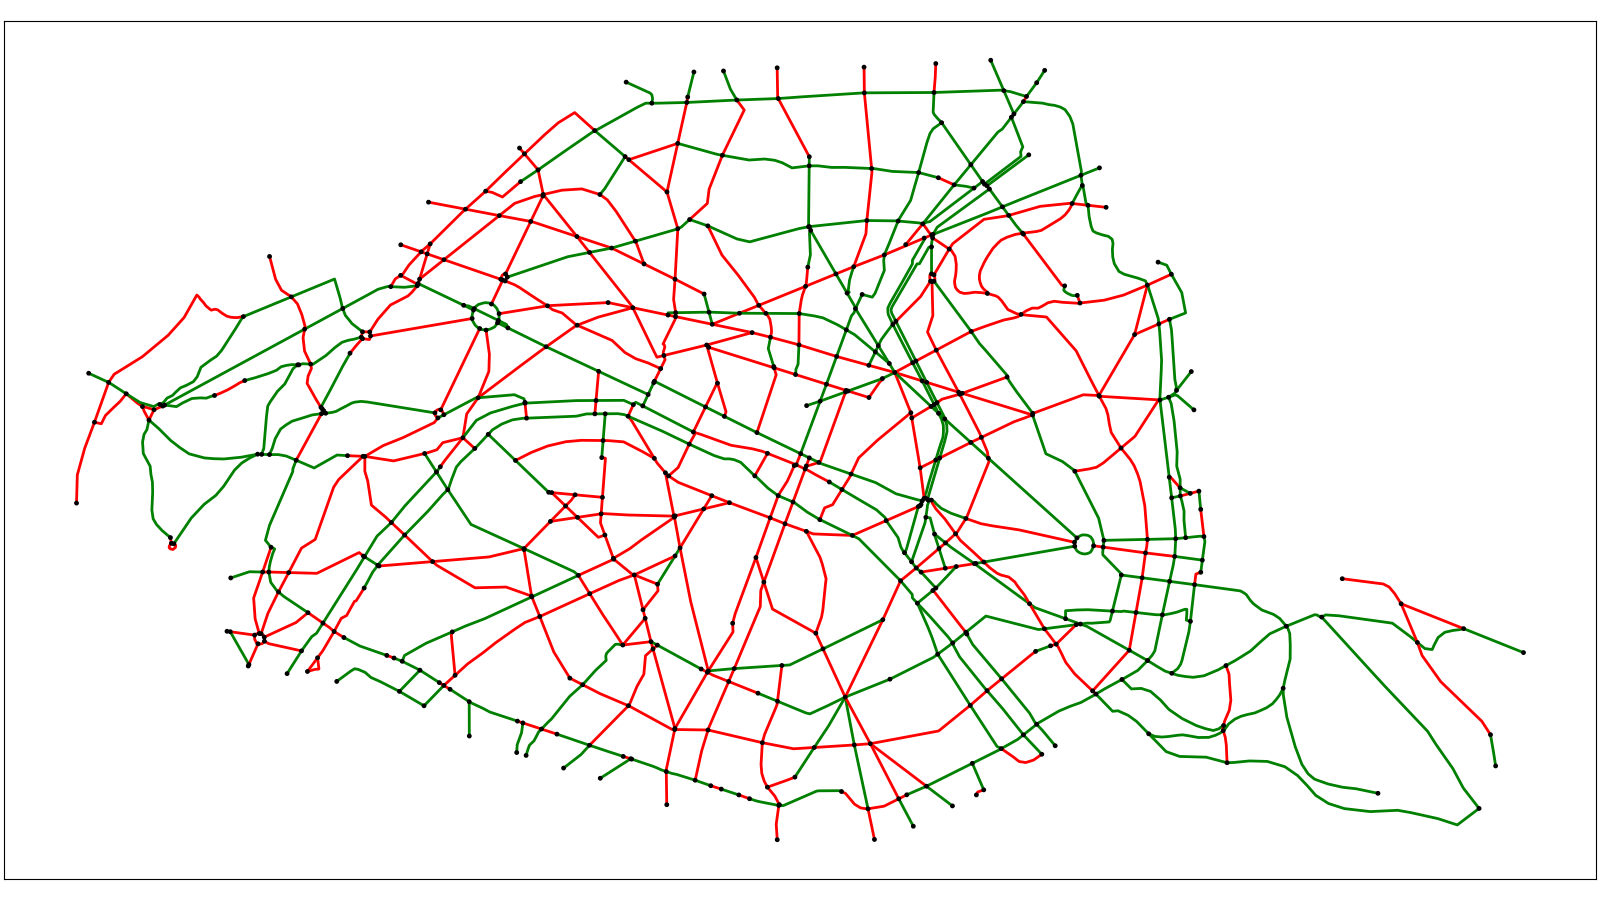
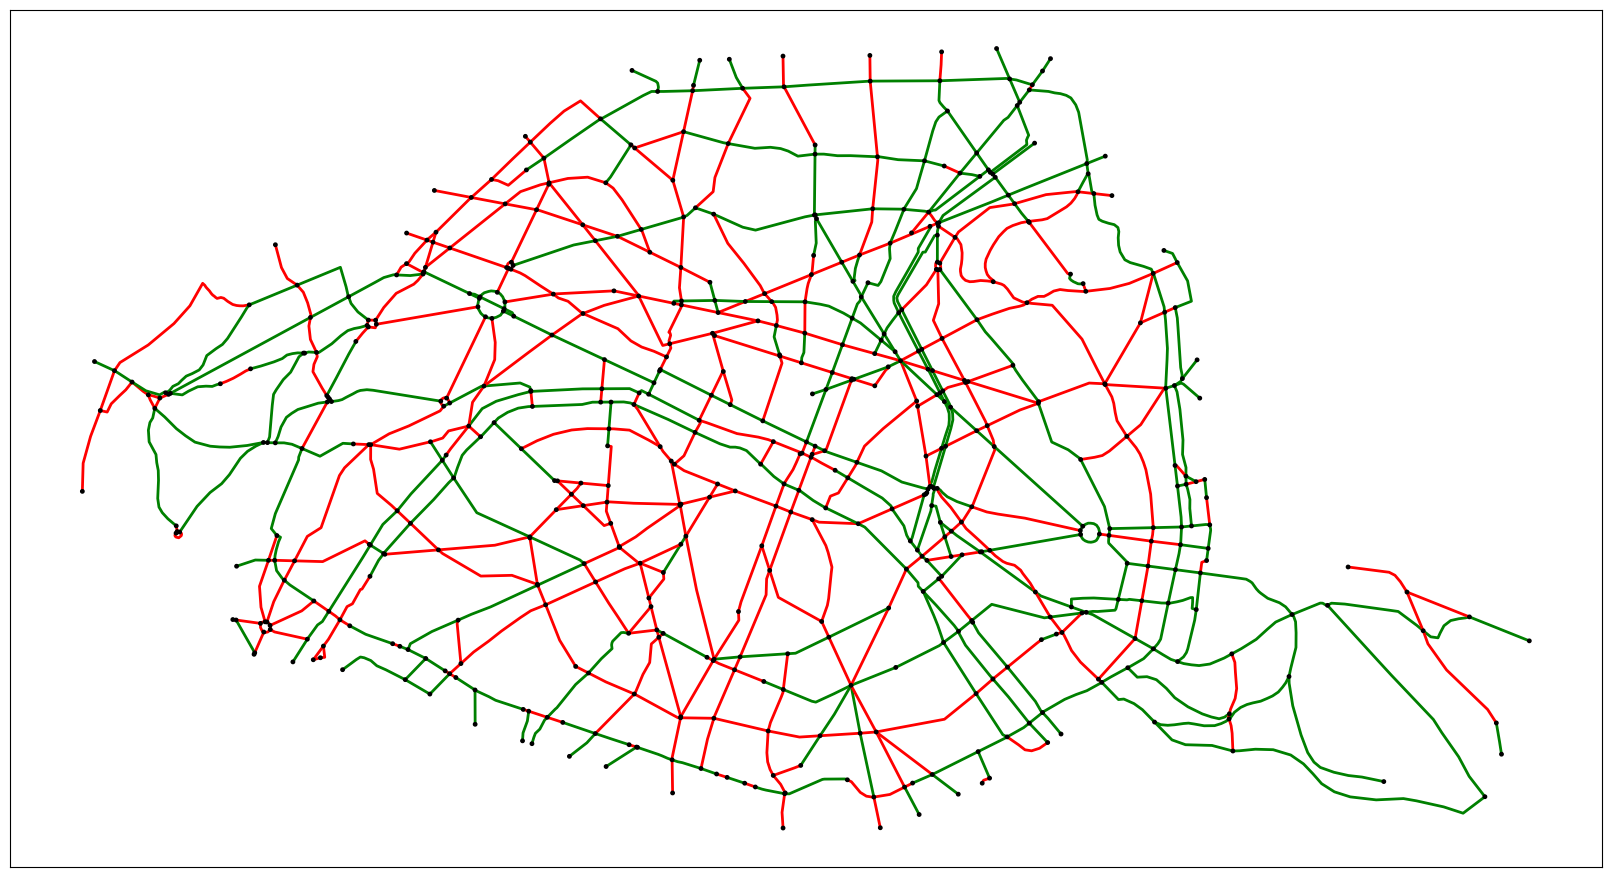
Fixed subtractive coverage growth, added metric template and update function to dynamic growth

diff --git a/orderbike/metrics.py b/orderbike/metrics.py
@@ -25,31 +25,44 @@ def growth_betweenness(G, weight="length"):
     return [key for key, val in sorted(ebet.items(), key=lambda x: x[1], reverse=True)]
 
 
+def growth_closeness(G, weight="length"):
+    """Return the list of all edges of G ranked in descending order of edge closeness, as the mean of their closeness nodes."""
+    nclo = nx.closeness_centrality(G, distance=weight)
+    eclo = {e: (nclo[e[0]] + nclo[e[1]]) / 2 for e in G.edges}
+    return [key for key, val in sorted(eclo.items(), key=lambda x: x[1], reverse=True)]
+
+
 def growth_coverage(
-    G, edge, pregraph=None, order="subtractive", geom={}, actual_area=0, buff_size=200
+    G,
+    edge,
+    order,
+    pregraph=None,
+    geom={},
+    actual_area=0,
+    buff_size=200,
+    min_buff=25,
+    threshold_change=0.01,
 ):
-    """Get coverage of the graph G. Works with growth.dynamic_growth function. See prefunc_growth_coverage."""
+    """Get coverage of the graph G. Works with growth.dynamic_growth function. Use prefunc_growth_coverage and upfunc_growth_coverage for classic coverage, use prefunc_growth_adaptative_coverage and upfunc_growth_adaptative_coverage for adaptative coverage."""
     geom_new = geom.copy()
     if order == "subtractive":
         geom_new.pop(edge)
-    if order == "additive":
+    elif order == "additive":
         geom_new[edge] = G.edges[edge]["geometry"].buffer(buff_size)
     new_area = shapely.ops.unary_union(list(geom_new.values())).area
-    if order == "subtractive":
-        return (actual_area - new_area) / pregraph.edges[edge]["length"]
-    elif order == "additive":
-        return (new_area - actual_area) / G.edges[edge]["length"]
-    else:
-        raise ValueError(
-            f"Incorrect value {order} for order, please choose subtractive or additive."
-        )
+    # If additive, the max is one increasing the most the area
+    # If subtractive, since new_area - actual_area <= 0 the max is one changing less the area
+    return (new_area - actual_area) / G.edges[edge]["length"]
 
 
-def prefunc_growth_coverage(G, order="subtractive", buff_size=200):
+def prefunc_growth_coverage(G_actual, G_final, order, buff_size=200):
     """Pre-compute the dictionary of buffered geometries of the edges and the actual area for the coverage growth optimization."""
-    geom = {edge: G.edges[edge]["geometry"].buffer(buff_size) for edge in G.edges}
+    geom = {
+        edge: G_actual.edges[edge]["geometry"].buffer(buff_size)
+        for edge in G_actual.edges
+    }
     return {
-        "pregraph": G,
+        "pregraph": G_actual,
         "order": order,
         "geom": geom,
         "actual_area": shapely.ops.unary_union(list(geom.values())).area,
@@ -57,63 +70,79 @@ def prefunc_growth_coverage(G, order="subtractive", buff_size=200):
     }
 
 
-# TODO: Add minimal buffer as plateau so replace buffer smaller than min_buff by min_buff ?
+def upfunc_growth_coverage(
+    G, G_actual, step, order, buff_size=200, geom=None, actual_area=0
+):
+    if order == "subtractive":
+        geom.pop(step)
+    elif order == "additive":
+        geom[step] = G.edges[step]["geometry"].buffer(buff_size)
+    return {
+        "pregraph": G_actual,
+        "order": order,
+        "geom": geom,
+        "actual_area": shapely.ops.unary_union(list(geom.values())).area,
+        "buff_size": buff_size,
+    }
+
+
 def prefunc_growth_adaptative_coverage(
+    G_actual, G_final, order, buff_size=400, min_buff=25, threshold_change=0.01
+):
+    """Pre-compute the dictionary of buffered geometries of the edges and the actual area for the coverage growth optimization."""
+    geom = {
+        edge: G_actual.edges[edge]["geometry"].buffer(buff_size)
+        for edge in G_actual.edges
+    }
+    return {
+        "pregraph": G_actual,
+        "order": order,
+        "geom": geom,
+        "actual_area": shapely.ops.unary_union(list(geom.values())).area,
+        "buff_size": buff_size,
+        "min_buff": min_buff,
+        "threshold_change": threshold_change,
+    }
+
+
+def upfunc_growth_adaptative_coverage(
     G,
-    order="subtractive",
-    buff_size=500,
-    G_final=None,
-    order_growth=[],
+    G_actual,
+    step,
+    order,
+    buff_size=400,
+    min_buff=25,
     threshold_change=0.01,
-    min_buff=20,
+    geom=None,
+    actual_area=0,
 ):
     """Pre-compute the dictionary of buffered geometries of the edges and the actual area for the coverage growth optimization, and reduce the buffer size if too big."""
-    if len(order_growth) > 1:
-        if order == "subtractive":
-            edges_bef = list(G.edges)
-            edges_bef.append(tuple([order_growth[-1]]))
-            G_bef = G_final.edge_subgraph(edges_bef)
-        elif order == "additive":
-            G_bef = G.copy()
-            G_bef.remove_edge(*order_growth[-1])
-        geom = {edge: G.edges[edge]["geometry"].buffer(buff_size) for edge in G.edges}
-        geom_bef = {
-            edge: G_bef.edges[edge]["geometry"].buffer(buff_size)
-            for edge in G_bef.edges
-        }
-        change = (
-            shapely.ops.unary_union(list(geom.values())).area
-            - shapely.ops.unary_union(list(geom_bef.values())).area
-        ) / shapely.ops.unary_union(list(geom_bef.values())).area
-        # Since there is no memory in the precomp function we need to always recompute the actual buffer size
-        while change < threshold_change:
+    if order == "subtractive":
+        geom.pop(step)
+    elif order == "additive":
+        geom[step] = G.edges[step]["geometry"].buffer(buff_size)
+    new_area = shapely.ops.unary_union(list(geom.values())).area
+    if buff_size > min_buff:
+        change = (new_area - actual_area) / actual_area
+        if change < threshold_change:
             buff_size = buff_size / 2
+            if buff_size <= min_buff:
+                buff_size = min_buff
             geom = {
                 edge: G.edges[edge]["geometry"].buffer(buff_size) for edge in G.edges
             }
-            # To avoid infinite loop for very large graph where single edge cannot give more than threshold change anymore
-            if buff_size <= min_buff:
-                break
-            geom_bef = {
-                edge: G_bef.edges[edge]["geometry"].buffer(buff_size)
-                for edge in G_bef.edges
-            }
-            change = (
-                shapely.ops.unary_union(list(geom.values())).area
-                - shapely.ops.unary_union(list(geom_bef.values())).area
-            ) / shapely.ops.unary_union(list(geom_bef.values())).area
-    else:
-        geom = {edge: G.edges[edge]["geometry"].buffer(buff_size) for edge in G.edges}
     return {
         "pregraph": G,
         "order": order,
         "geom": geom,
-        "actual_area": shapely.ops.unary_union(list(geom.values())).area,
+        "actual_area": new_area,
         "buff_size": buff_size,
+        "min_buff": min_buff,
+        "threshold_change": threshold_change,
     }
 
 
-def growth_relative_directness(G, edge, sm_final=[], G_final=None):
+def growth_relative_directness(G, edge, sm_final=[], G_final=None, order=None):
     """Get relative directness of the graph G. Works with growth.dynamic_growth."""
     sm = get_shortest_network_path_length_matrix(G)
     ids_to_delete = [ids for ids, node in enumerate(G_final.nodes) if node not in G]
@@ -125,10 +154,29 @@ def growth_relative_directness(G, edge, sm_final=[], G_final=None):
     return np.sum(mat) / np.count_nonzero(mat)
 
 
-def prefunc_growth_relative_directness(G, order="subtractive", G_final=None):
+def prefunc_growth_relative_directness(G, G_final, order):
     """Pre-compute the final shortesth network path length matrix of the graph."""
     sm_final = get_shortest_network_path_length_matrix(G_final)
-    return {"sm_final": sm_final, "G_final": G_final}
+    return {"sm_final": sm_final, "G_final": G_final, "order": order}
+
+
+def upfunc_growth_relative_directness(G, G_final, step, order):
+    """Pre-compute the final shortesth network path length matrix of the graph."""
+    return prefunc_growth_relative_directness(G, G_final, order)
+
+
+# def growth_directness(G, edge, em=[]):
+#     sm = get_shortest_network_path_length_matrix(G)
+#     mat = _avoid_zerodiv_matrix(em, sm)
+#     # Mean directness on all non-null value, a null value means in different components or same node
+#     return np.sum(mat) / np.count_nonzero(mat)
+#
+# def prefunc_growth_directness(G_actual, G, order):
+#     pass
+#     # return {"em":get_euclidean_distance_matrix(G_actual)}
+#
+# def upfunc_growth_directness(G, G_final, step, order):
+#     pass
 
 
 def directness(G, edge):

diff --git a/orderbike/growth.py b/orderbike/growth.py
@@ -68,8 +68,10 @@ def order_dynamic_network_growth(
     built=True,
     keep_connected=True,
     order="subtractive",
-    metric_func=metrics.growth_coverage,
-    precomp_func=metrics.prefunc_growth_coverage,
+    metric="coverage",
+    metric_func=None,
+    precomp_func=None,
+    update_func=None,
     progress_bar=True,
     **kwargs,
 ):
@@ -81,12 +83,24 @@ def order_dynamic_network_growth(
         built (bool, optional): If True, the graph will be initialized with all edges having as an attribute "built" = 1. Else it will be initialized with an arbitrary edge of the node with the highest closeness value. Defaults to True.
         keep_connected (bool, optional): If True, the number of components of G will be as small as possible for all the growth, restricting the list of edges that can be added. Defaults to True.
         order (str, optional): Either subtractive or additive. Gives the order for the greedy optimization. The subtractive (resp. additive) start from the final (resp. initial) graph and remove (resp. add) edges until reaching the initial graph (resp. final). Defaults to "subtractive".
-        metric_func (function, optional): The function computing the metric on G. Defaults to metrics.get_coverage.
-        precomp_func (function, optional): A sister function to metric_func to compute values before the loop on all valid edges. Defaults to metrics.prefunc_coverage.
+        metric (str, optional): The name of the metric used, automatically fill metric_func, precomp_func, and update_func. See _metric_dictionaries.
+        metric_func (function, optional): The function computing the metric on G. Defaults to None.
+        precomp_func (function, optional): A sister function to metric_func to compute values before the growth steps. Default to None.
+        update_func (function, optional): A sister function to metric_func to update values at each steps. Default to None.
 
     Returns:
         list: Ordered list of edges. For subtractive (resp. additive) order, the first edge in the list is the last (resp. first) to add. If built is True, will only have edges with "built" != 1. Else, will have all edges of G except the seed.
     """
+    if metric is not None:
+        metric_dict = _metric_dictionaries()[metric]
+        metric_func = metric_dict["metric_func"]
+        precomp_func = metric_dict["precomp_func"]
+        update_func = metric_dict["update_func"]
+    else:
+        if metric_func is None:
+            raise ValueError(
+                "Plaise enter either a metric name or functions to compute growth"
+            )
     order_growth = []
     init_edges = _init_edges(G, built, order)
     G_actual = _init_graph(G, order, init_edges)
@@ -94,11 +108,11 @@ def order_dynamic_network_growth(
     total_step = range(num_step)
     if progress_bar:
         total_step = tqdm.tqdm(total_step)
+    if precomp_func is not None:
+        precomp_kwargs = precomp_func(G_actual, G, order, **kwargs)
+    else:
+        precomp_kwargs = kwargs
     for i in total_step:
-        if precomp_func is not None:
-            precomp_kwargs = precomp_func(G_actual, order=order, **kwargs)
-        else:
-            precomp_kwargs = kwargs
         valid_edges = _valid_edges(
             G, G_actual, init_edges, built, keep_connected, order
         )
@@ -112,9 +126,34 @@ def order_dynamic_network_growth(
         step = max(zip(metric_vals, valid_edges))[1]
         G_actual = _update_actual_graph(G, G_actual, step, order)
         order_growth.append(step)
+        if update_func is not None:
+            precomp_kwargs = update_func(G, G_actual, step, **precomp_kwargs)
     if order == "subtractive":
         order_growth.reverse()
     return order_growth
+
+
+def _metric_dictionaries():
+    metrics_dict = {}
+    metrics_dict["relative_directness"] = {
+        "metric_func": metrics.growth_relative_directness,
+        "precomp_func": metrics.prefunc_growth_relative_directness,
+    }
+    metrics_dict["directness"] = {
+        "metric_func": metrics.directness,
+        "precomp_func": None,
+    }
+    metrics_dict["coverage"] = {
+        "metric_func": metrics.growth_coverage,
+        "precomp_func": metrics.prefunc_growth_coverage,
+        "update_func": metrics.upfunc_growth_coverage,
+    }
+    metrics_dict["adaptative_coverage"] = {
+        "metric_func": metrics.growth_coverage,
+        "precomp_func": metrics.prefunc_growth_adaptative_coverage,
+        "update_func": metrics.upfunc_growth_coverage,
+    }
+    return metrics_dict
 
 
 def _init_edges(G, built, order):

diff --git a/scripts/process_bikenetplan_paris.py b/scripts/process_bikenetplan_paris.py
@@ -1,27 +1,67 @@
 """Script to find growth order on Paris bikeplan."""
+# STILL NEED TO CHECK IF WORKING WITH MULTIGRAPH
 
+import os
 import json
 from utg import utils as utgut
-from orderbike import metrics, growth
-import tqdm
+from orderbike import growth, plot
 
 if __name__ == "__main__":
+    BUILT = True
+    CONNECTED = True
+    ORDERNAME = "subtractive"
+    METRICNAME = "coverage"
+    kwargs = {}
     G = utgut.load_graph("./data/processed/plan_paris/paris_bikeplan_graph.graphml")
-    # STILL NEED TO CHECK IF WORKING WITH MULTIGRAPH
-    for e in G.edges:
-        G.edges[e]["built"] = int(G.edges[e]["built"])
-        G.edges[e]["length"] = float(G.edges[e]["length"])
-    for n in G.nodes:
-        G.nodes[n]["x"] = float(G.nodes[n]["x"])
-        G.nodes[n]["y"] = float(G.nodes[n]["y"])
-    for it in tqdm.tqdm(range(100)):
-        order_growth = growth.order_ranked_network_growth(
-            G,
-            built=True,
-            keep_connected=True,
-            order="additive",
-            ranking_func=metrics.growth_random,
-        )
-        foldername = "./data/processed/plan_paris/ignored_growth/graph/trials_random_additive_built_connected/"
-        with open(foldername + f"/order_growth_{it:05}.json", "w") as f:
-            json.dump(order_growth, f)
+    order_growth = growth.order_dynamic_network_growth(
+        G,
+        built=BUILT,
+        keep_connected=CONNECTED,
+        order=ORDERNAME,
+        metric=METRICNAME,
+        progress_bar=True,
+        **kwargs,
+    )
+    foldername = (
+        "./data/processed/plan_paris/ignored_growth/graph/"
+        + METRICNAME
+        + "_"
+        + ORDERNAME
+    )
+    if CONNECTED:
+        foldername += "_connected"
+    if BUILT:
+        foldername += "_built"
+    if not os.path.exists(foldername):
+        os.makedirs(foldername)
+    with open(foldername + "/order_growth.json", "w") as f:
+        json.dump(order_growth, f)
+    utgut.save_graph(G, foldername + "/toy_graph.graphml")
+    plot.plot_growth(
+        G,
+        order_growth,
+        foldername,
+        built=BUILT,
+        color_built="firebrick",
+        color_added="steelblue",
+        color_newest="darkgreen",
+        node_size=8,
+    )
+    plot.make_growth_video(foldername, foldername + "/growth_video.mp4", fps=3)
+    fig, ax = plot.plot_coverage(
+        G,
+        order_growth,
+        show=False,
+        save=True,
+        close=True,
+        filepath=foldername + "/coverage.png",
+    )
+    fig, ax = plot.plot_directness(
+        G,
+        order_growth,
+        show=False,
+        save=True,
+        close=True,
+        filepath=foldername + "/directness.png",
+        x_meter=True,
+    )
